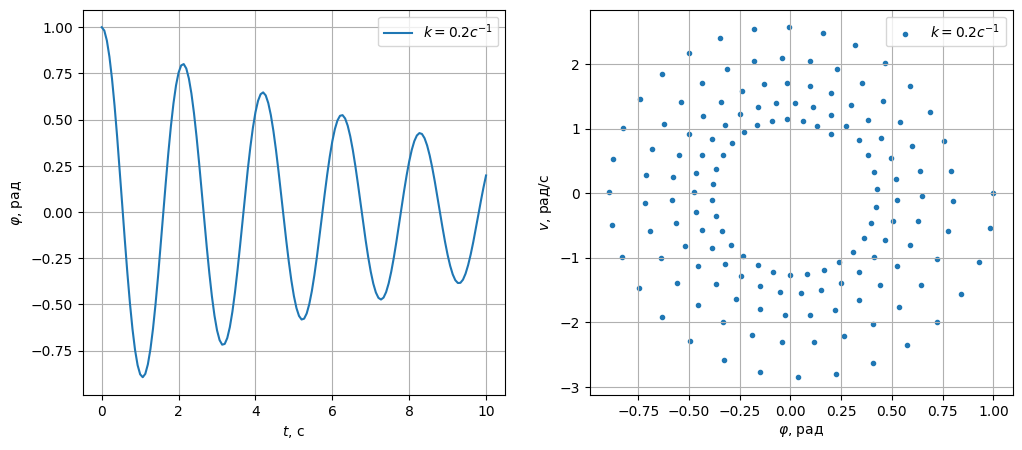
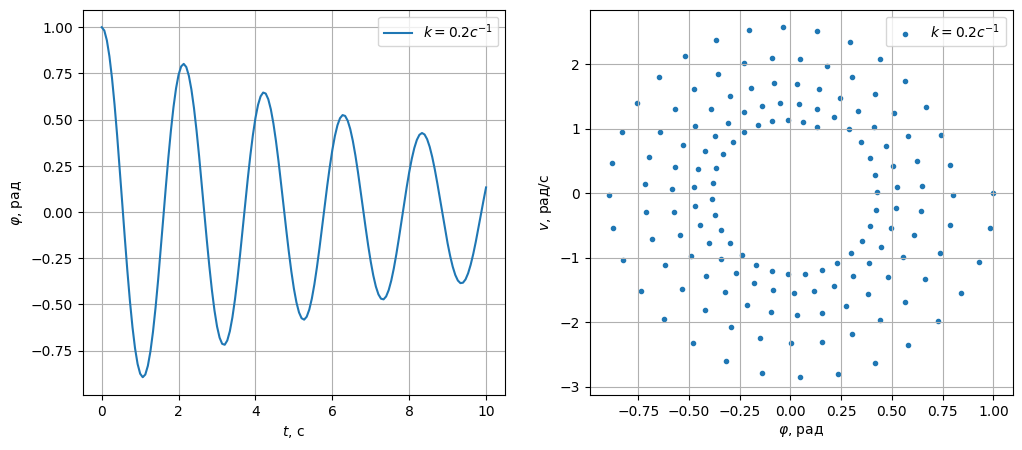
refactor: t vector

diff --git a/main.py b/main.py
@@ -2,11 +2,6 @@ from cgitb import handler
 import matplotlib.pyplot as plt
 import numpy as np
 
-a = 0
-b = 10
-N = 150
-h = (b - a) / N
-
 
 def dv_linear(t, v, phi, omega, k, omega_f, A):
     return -k * v - omega**2 * phi + A * np.sin(omega_f * t)
@@ -26,6 +21,7 @@ def func(dv_type, t, func_values, omega, k=0, omega_f=0, A=0):
 
 
 def rungeKutta(x, start_conditions, dv_type, param_list):
+    h = (x[len(x) - 1] - x[0]) / len(x)
     y = np.zeros((1, len(start_conditions)))
     y[0] = start_conditions
 
@@ -53,6 +49,9 @@ if __name__ == '__main__':
     g = 9.8
     omega = (g / L)**0.5
 
+    a = 0
+    b = 10
+    N = 150
     t = np.linspace(a, b, N + 1)
 
     parameters = [omega, k, omega_f, A]
@@ -77,7 +76,7 @@ if __name__ == '__main__':
     axs[1].grid()
     axs[1].legend()
     plt.savefig("linear_nonlinear.png", bbox_inches='tight')
-    # plt.show()
+    plt.show()
     plt.clf()
     plt.close()
 
@@ -133,7 +132,7 @@ if __name__ == '__main__':
     axs[1].grid()
     axs[1].legend()
     plt.savefig(f"with_k_{k}.png", bbox_inches='tight')
-    # plt.show()
+    plt.show()
     plt.clf()
     plt.close()
 
@@ -155,7 +154,7 @@ if __name__ == '__main__':
     axs[1].grid()
     axs[1].legend()
     plt.savefig(f"with_k_{k}.png", bbox_inches='tight')
-    # plt.show()
+    plt.show()
     plt.clf()
     plt.close()
 
